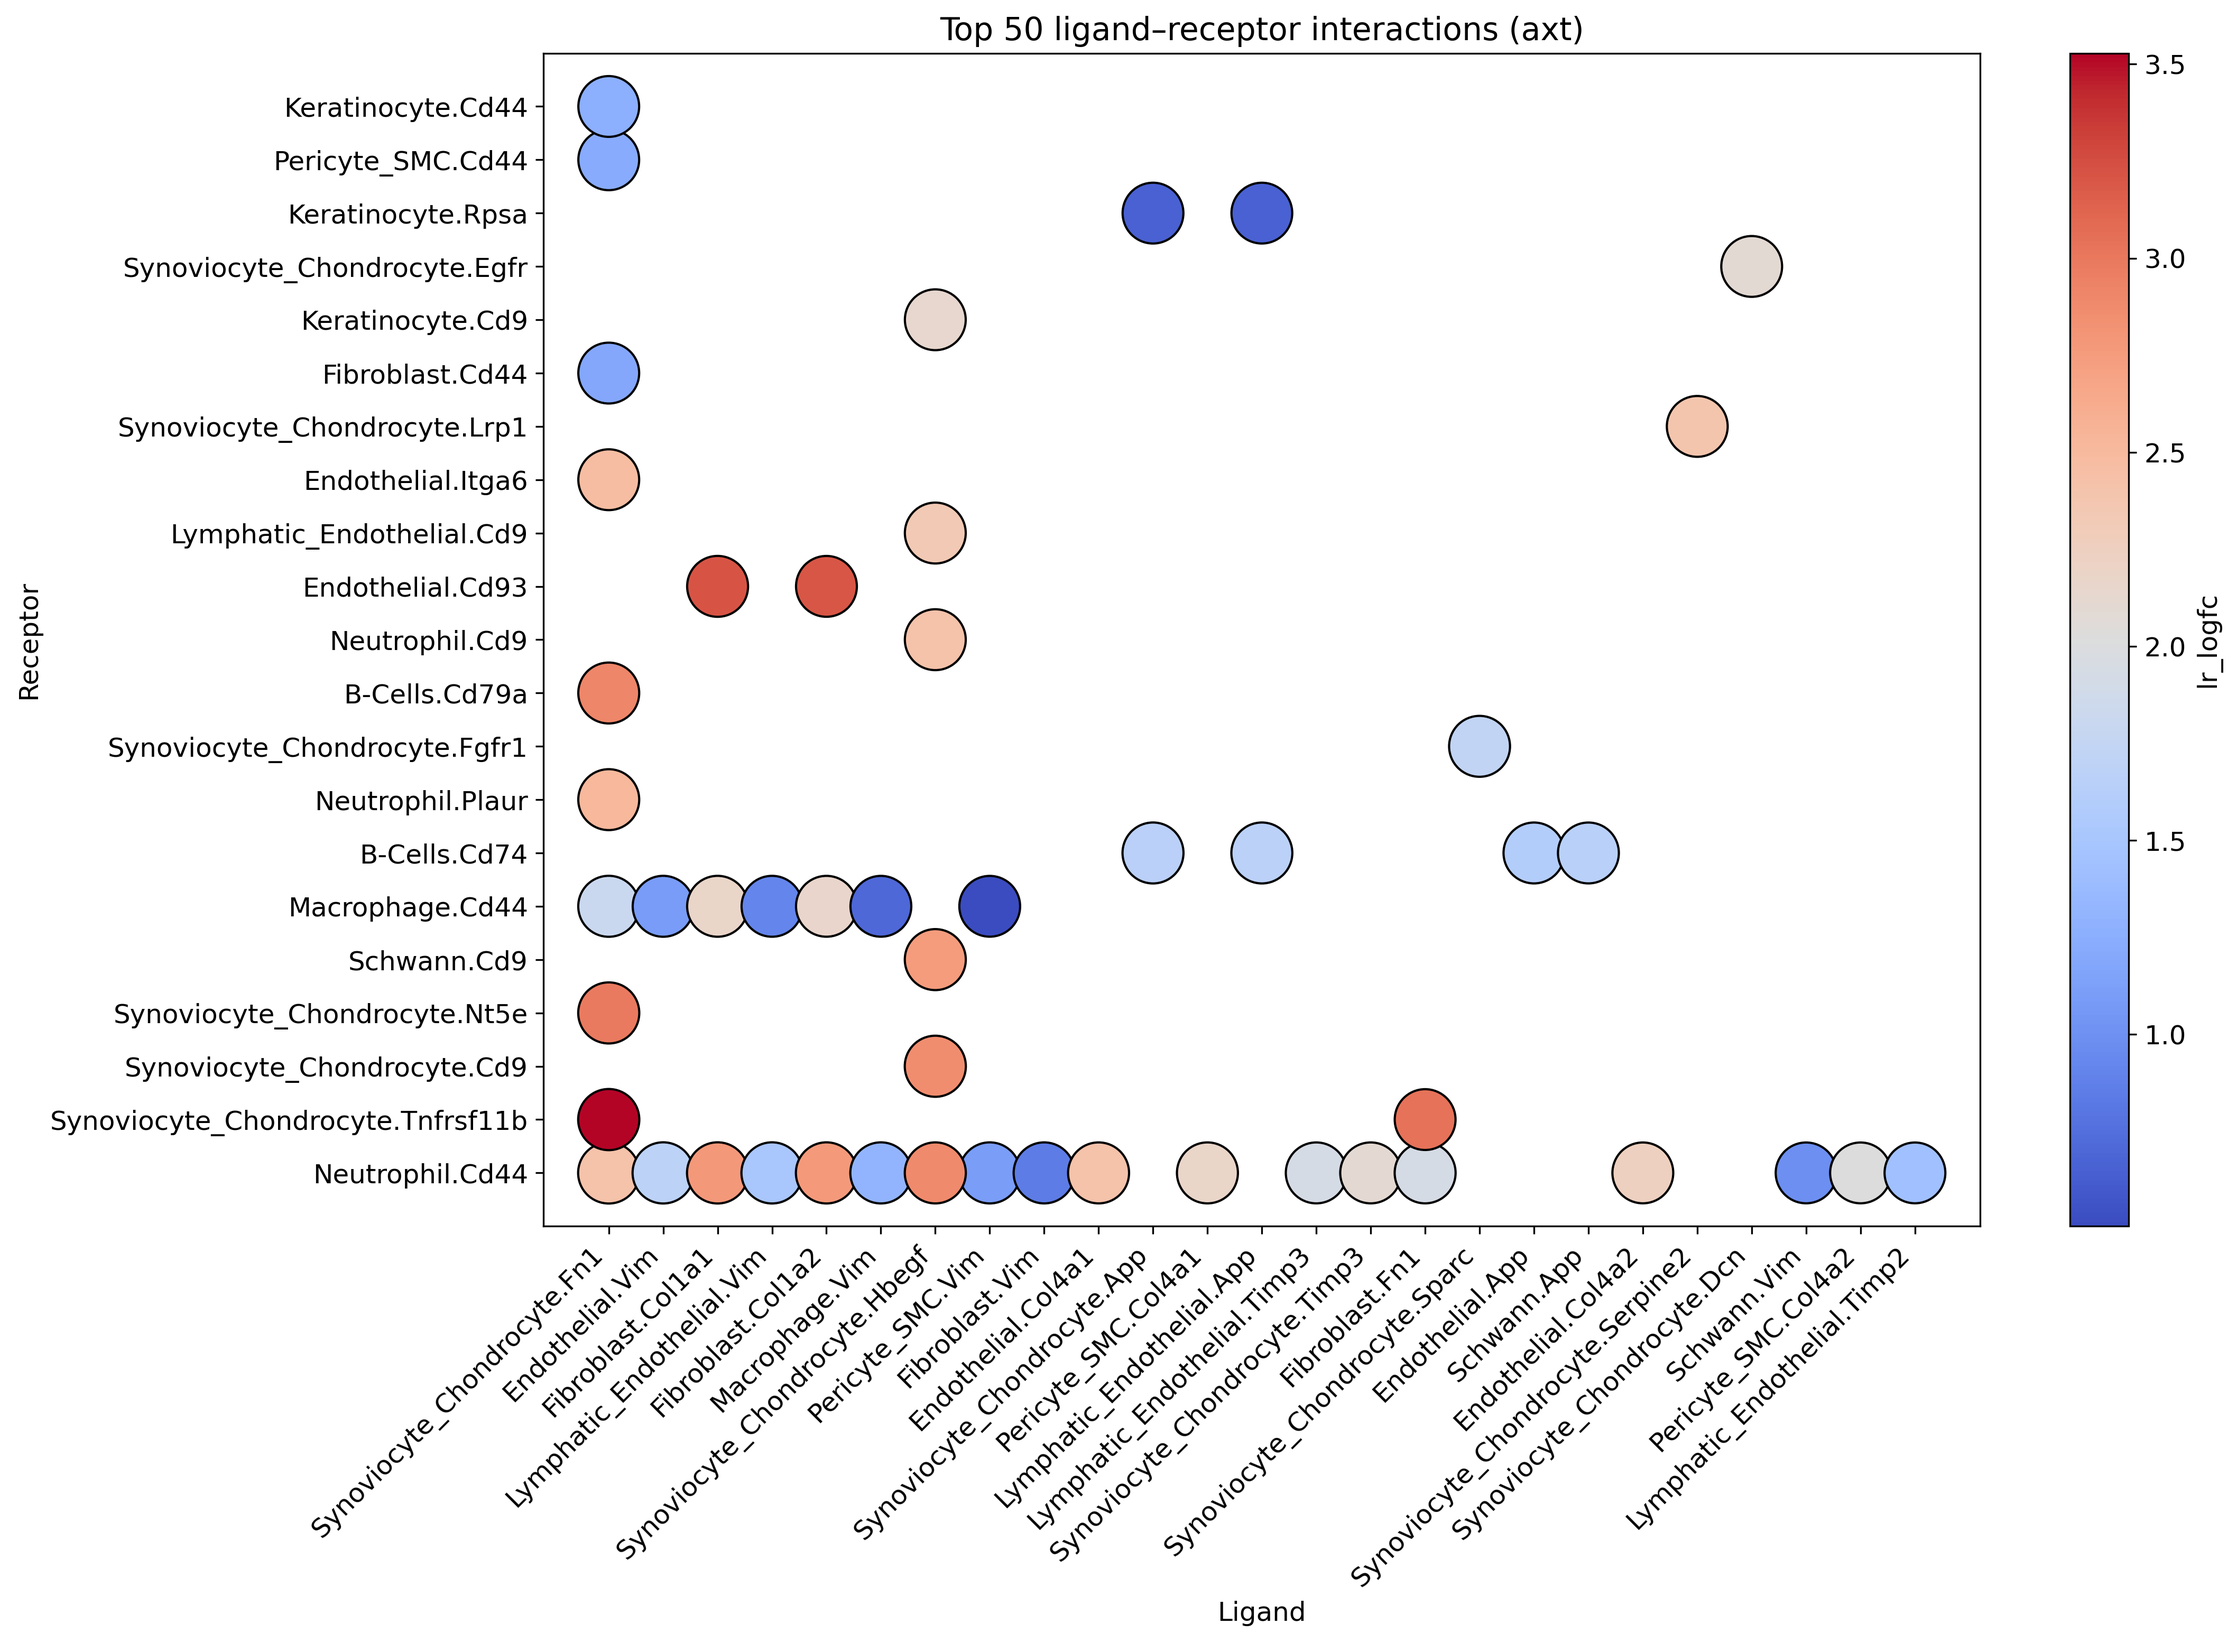
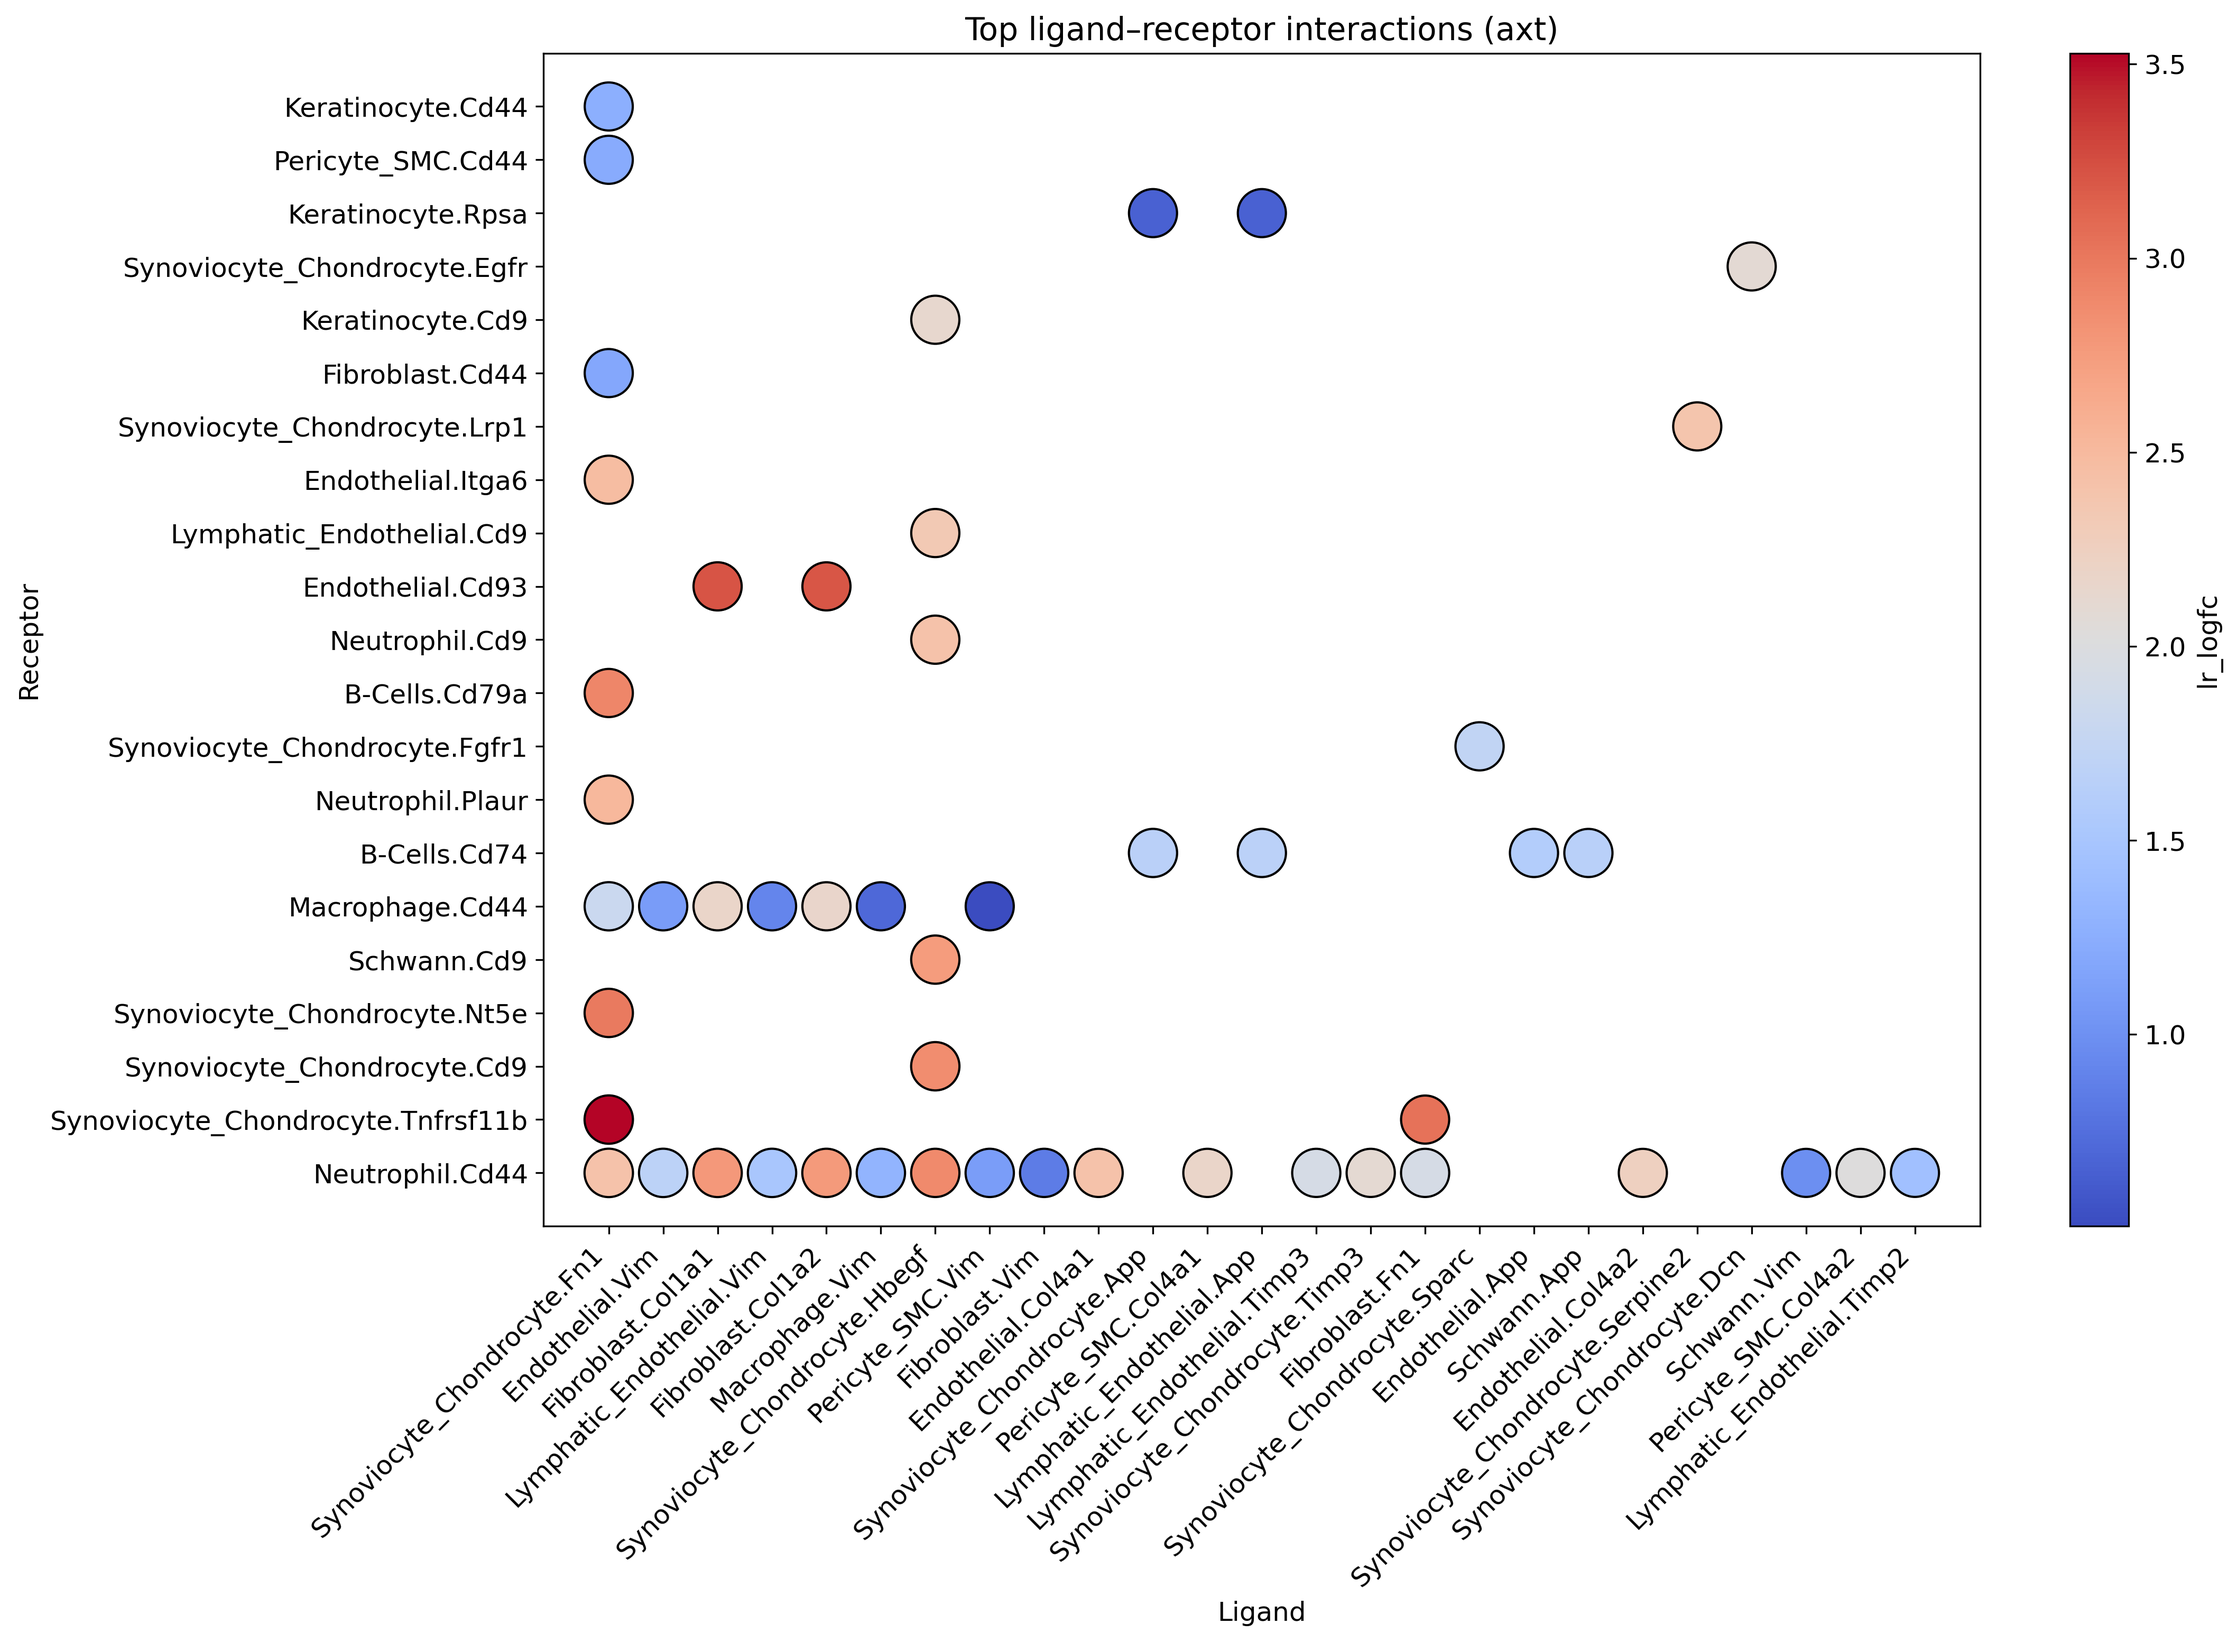
add cell2cell script/results

diff --git a/src/cell2cell.py b/src/cell2cell.py
@@ -80,7 +80,7 @@ plt.figure(figsize=(len(ligands) * 0.6, len(receptors) * 0.5))
 plt.scatter(
     plot_df["x"],
     plot_df["y"],
-    s=plot_df["lrscore"] * 800,   # scale dots properly
+    s=plot_df["lrscore"] * 500,   # scale dots properly
     c=plot_df["lr_logfc"],
     cmap="coolwarm",
     edgecolors="black"
@@ -92,7 +92,7 @@ plt.yticks(range(len(receptors)), receptors)
 
 plt.xlabel("Ligand")
 plt.ylabel("Receptor")
-plt.title(f"Top {args.N} ligand–receptor interactions ({args.prefix})")
+plt.title(f"Top ligand–receptor interactions ({args.prefix})")
 
 plt.colorbar(label="lr_logfc")
 

diff --git a/README.md b/README.md
@@ -292,6 +292,8 @@ We performed differential gene expression analysis stratified by cell type to co
 
 This pipeline identifies potential **ligand–receptor interactions** from single-cell RNA-seq data using the LIANA framework. LIANA integrates multiple established methods into a single consensus scoring system.
 
+#### Top lrScores interactions with minimum logFC 0.5 
+
 ![](figures/axt_liana_dotplot.png?=1)
 
 ### Ligand–receptor inference (LIANA)
